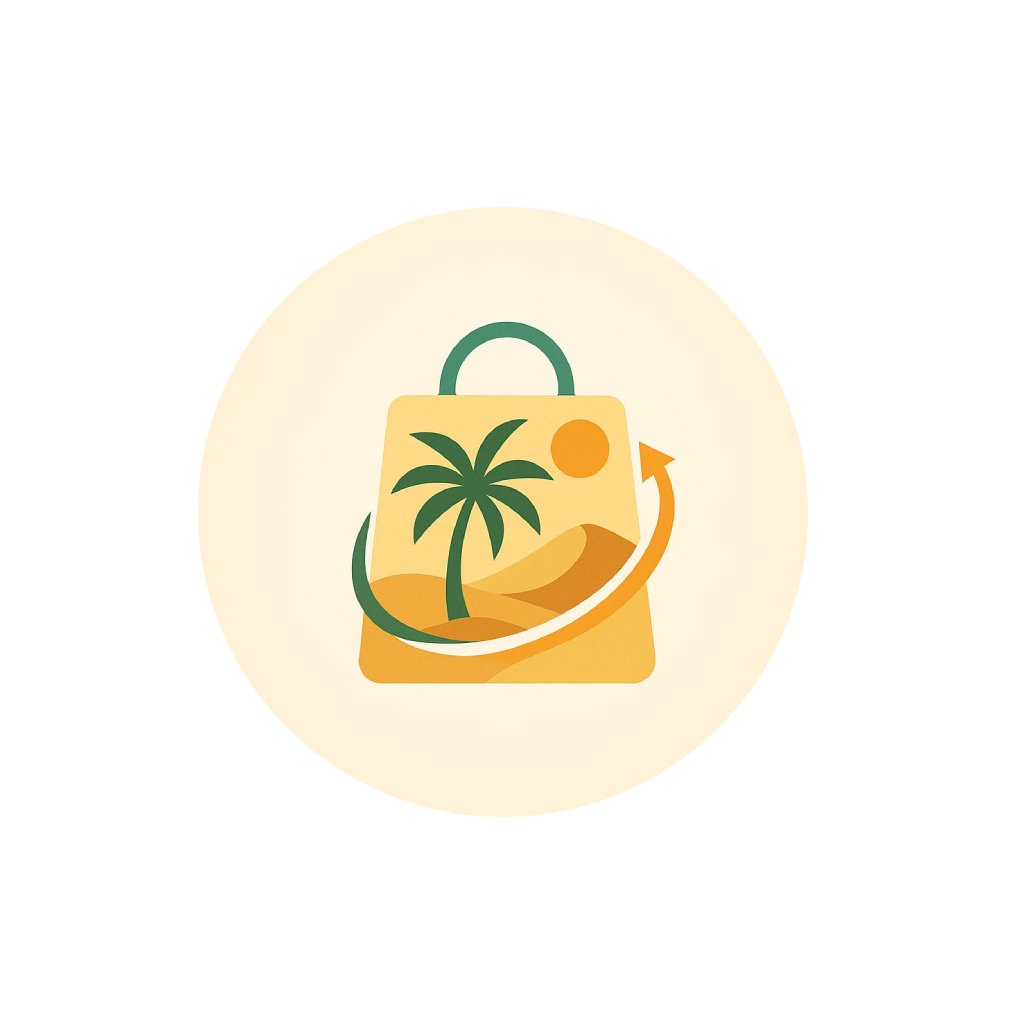
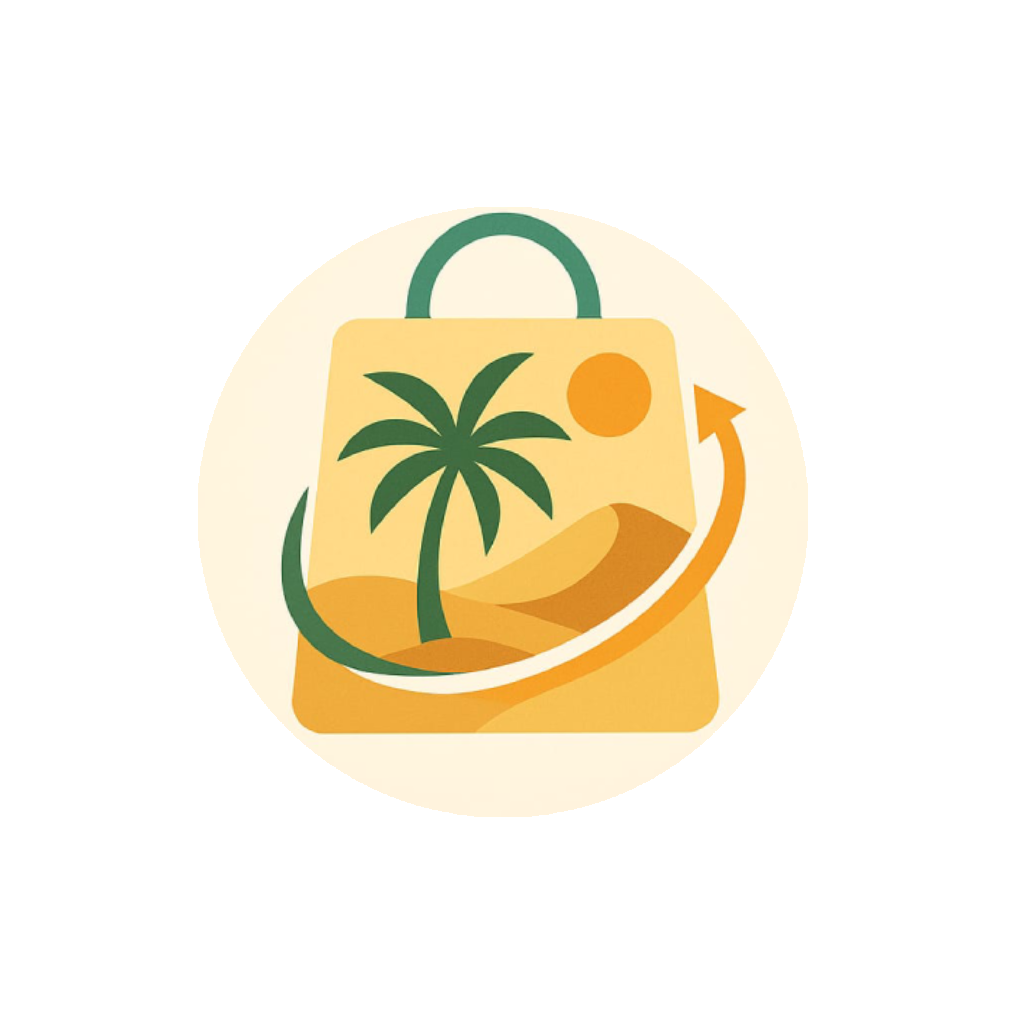
feat: add dynamic stores section with location-based filtering
- Replace static stores list with dynamic implementation that fetches stores based on user location
- Add Arabic language support for store-related UI elements and error messages
- Implement search and category filtering functionality for stores
- Add empty state handling for various scenarios (no stores, search results, errors)
- Integrate location services to show stores in user's current area
- Update product card styling with new container element
- Refresh app icons and splash screen assets for improved branding

Changed region(s): [[0.25, 0.1875, 0.75, 0.7188]]

diff --git a/customer-app/src/screens/Home2/HomeScreen2.js b/customer-app/src/screens/Home2/HomeScreen2.js
@@ -185,6 +185,70 @@ const HomeScreen = ({ navigation }) => {
           />
         </View>
 
+
+      {/* Stores Section */}
+        <View style={styles.section}>
+          <Text style={styles.sectionTitle}>المتاجر</Text>
+          
+        </View>
+
+        {/* Stores Section Header */}
+        <View style={styles.sectionHeader}>
+         
+      
+        </View>
+
+        {/* Stores List */}
+        {error ? (
+          <EmptyState
+            icon="error-outline" 
+            title="خطأ في تحميل البيانات"
+            message={error}
+            actionText="إعادة المحاولة"
+            onActionPress={getCurrentLocation}
+          />
+        ) : filteredStores.length > 0 ? (
+          <FlatList
+            data={filteredStores}
+            horizontal
+            numColumns={1} 
+            renderItem={({ item }) => (
+              <StoreCard
+                store={item} 
+                onPress={() => handleStorePress(item)}
+                userLocation={userLocation}
+              />
+            )}
+            keyExtractor={(item) => item.id}
+            showsVerticalScrollIndicator={false}
+            contentContainerStyle={styles.storesList}
+          />
+        ) : searchQuery || selectedCategory ? (
+          <EmptyState
+            icon="search-off" 
+            message={
+              searchQuery
+                ? `لا توجد متاجر تحتوي على "${searchQuery}"`
+                : 'لا توجد متاجر في هذه الفئة'
+            }
+            actionText="مسح البحث"
+            onActionPress={() => {
+              setSearchQuery('');
+              setSelectedCategory(null);
+            }}
+          />
+        ) : (
+          <EmptyState
+            icon="storefront"
+            title="لا توجد متاجر"
+            message="لا توجد متاجر متاحة في هذه المنطقة حالياً"
+            actionText="تغيير المنطقة"
+            onActionPress={handleLocationPress}
+          />
+        )}
+
+
+
         {/* Random Products Section */}
         <View style={styles.section}>
           <View style={styles.sectionHeader}>
@@ -198,6 +262,7 @@ const HomeScreen = ({ navigation }) => {
             keyExtractor={(item) => item.id}
             renderItem={({ item }) => (
               <View  className='bg-red500'>
+                <View style={styles.productCard}></View>
                 <ProductCard
                   product={item}
                   onPress={() => {
@@ -240,86 +305,7 @@ const HomeScreen = ({ navigation }) => {
           />
         </View>
 
-        {/* Stores Section */}
-        <View style={styles.section}>
-          <Text style={styles.sectionTitle}>المتاجر</Text>
-          <FlatList
-            data={STORES.slice(0, 10)} // Show first 10 stores
-            horizontal
-            showsHorizontalScrollIndicator={false}
-            keyExtractor={(item) => item.id}
-            renderItem={({ item }) => (
-              <TouchableOpacity
-                style={styles.storeCard}
-                onPress={() => navigation.navigate('StoreDetails2', { storeId: item.id })}>
-                <Image source={{ uri: item.image }} style={styles.storeImage} />
-                <Text style={styles.storeName} numberOfLines={1}>
-                  {item.name}
-                </Text>
-              </TouchableOpacity>
-            )}
-            contentContainerStyle={styles.storesList}
-          />
-        </View>
-
-        {/* Stores Section Header */}
-        <View style={styles.sectionHeader}>
-          <Text style={styles.sectionTitle}>
-            {selectedCategory
-              ? `${selectedCategory.name} في ${selectedVillage?.name || 'المنطقة المختارة'}`
-              : 'المتاجر المتاحة'}
-          </Text>
-          <Text style={styles.storesCountText}>{filteredStores.length} متجر</Text>
-        </View>
-
-        {/* Stores List */}
-        {error ? (
-          <EmptyState
-            icon="error-outline"
-            title="خطأ في تحميل البيانات"
-            message={error}
-            actionText="إعادة المحاولة"
-            onActionPress={getCurrentLocation}
-          />
-        ) : filteredStores.length > 0 ? (
-          <FlatList
-            data={filteredStores}
-            renderItem={({ item }) => (
-              <StoreCard
-                store={item}
-                onPress={() => handleStorePress(item)}
-                userLocation={userLocation}
-              />
-            )}
-            keyExtractor={(item) => item.id}
-            showsVerticalScrollIndicator={false}
-            contentContainerStyle={styles.storesList}
-          />
-        ) : searchQuery || selectedCategory ? (
-          <EmptyState
-            icon="search-off"
-            title="لا توجد نتائج"
-            message={
-              searchQuery
-                ? `لا توجد متاجر تحتوي على "${searchQuery}"`
-                : 'لا توجد متاجر في هذه الفئة'
-            }
-            actionText="مسح البحث"
-            onActionPress={() => {
-              setSearchQuery('');
-              setSelectedCategory(null);
-            }}
-          />
-        ) : (
-          <EmptyState
-            icon="storefront"
-            title="لا توجد متاجر"
-            message="لا توجد متاجر متاحة في هذه المنطقة حالياً"
-            actionText="تغيير المنطقة"
-            onActionPress={handleLocationPress}
-          />
-        )}
-
+  
         {/* Quick Actions */}
         <View style={styles.quickActions}>
           <TouchableOpacity
@@ -430,7 +416,7 @@ const styles = StyleSheet.create({
     paddingHorizontal: SIZES.padding,
   },
   productCard: {
-    width: 150,
+    width: 200,
     marginRight: SIZES.base,
   
   },
